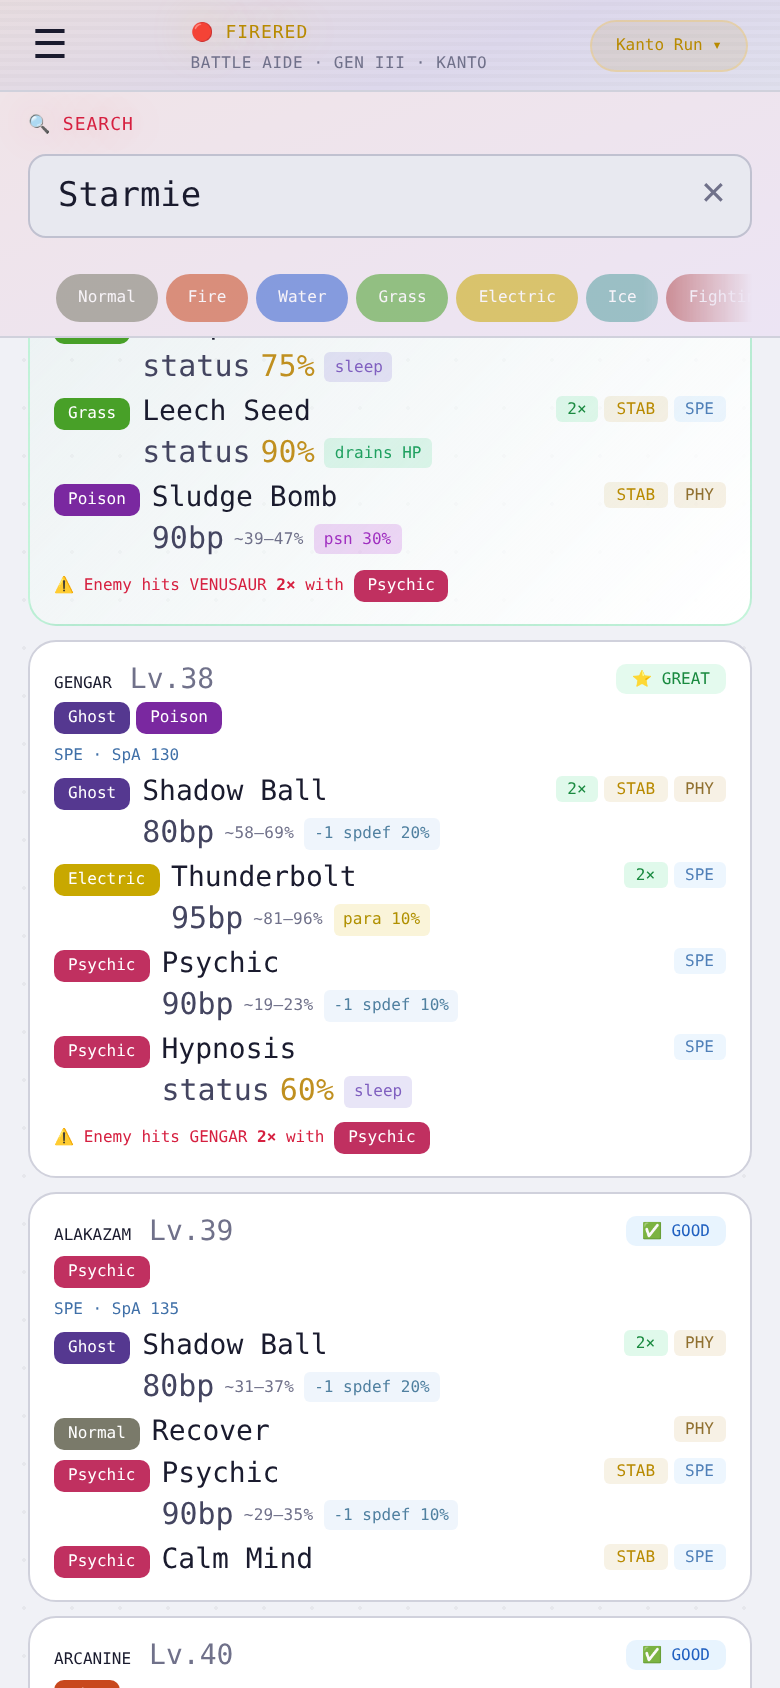
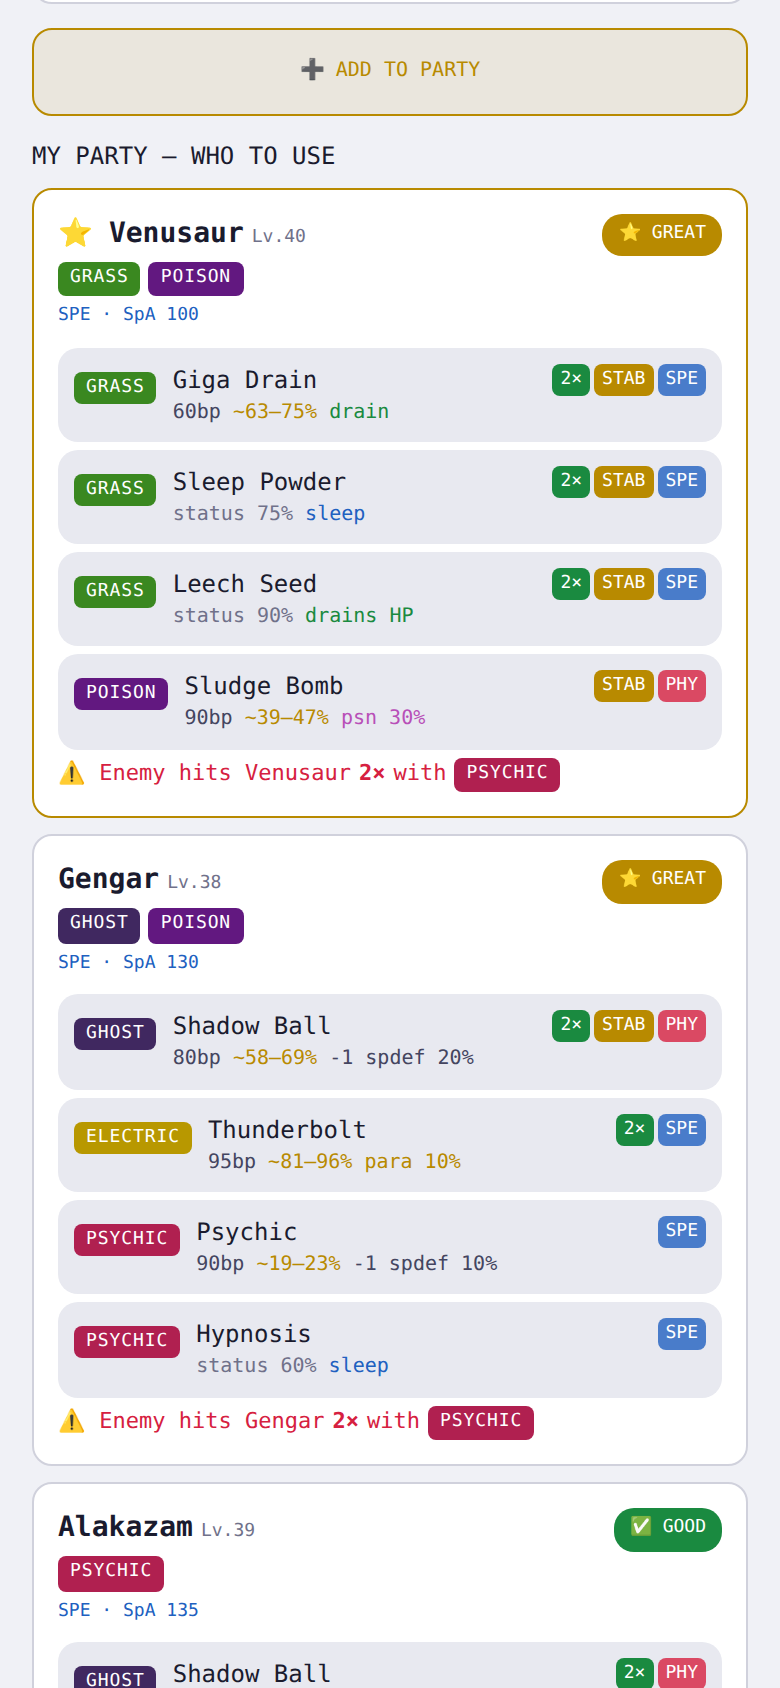
feat: regenerate README screenshots against React preview (Phase 9)

diff --git a/scripts/screenshot-readme.ts b/scripts/screenshot-readme.ts
@@ -1,0 +1,264 @@
+/**
+ * Regenerate the 4 README screenshots against the React + Tailwind build.
+ *
+ * Usage:
+ *   npm run build
+ *   npm run screenshots
+ *
+ * Spawns `vite preview` on a fixed port, seeds a full-party playthrough into
+ * `se_v1`, walks the app, and overwrites the tracked PNGs under `screenshots/`.
+ */
+import { type ChildProcess, spawn } from "node:child_process";
+import { mkdir } from "node:fs/promises";
+import { dirname, resolve } from "node:path";
+import { fileURLToPath } from "node:url";
+import { type Page, chromium } from "@playwright/test";
+
+const HERE = dirname(fileURLToPath(import.meta.url));
+const ROOT = resolve(HERE, "..");
+const OUT_DIR = resolve(ROOT, "screenshots");
+const PORT = 4174;
+const BASE = `http://localhost:${PORT}/super-effective/`;
+
+const SEED_PT_ID = "00000000-0000-4000-8000-000000000042";
+
+const SEED_STORE = {
+  playthroughs: [
+    {
+      id: SEED_PT_ID,
+      name: "Kanto Run",
+      gameId: "frlg-fr",
+      party: [
+        {
+          n: 3,
+          name: "Venusaur",
+          types: ["Grass", "Poison"],
+          level: 40,
+          moves: [
+            { name: "Giga Drain", type: "Grass", cat: "spec" },
+            { name: "Sludge Bomb", type: "Poison", cat: "spec" },
+            { name: "Sleep Powder", type: "Grass", cat: "stat" },
+            { name: "Leech Seed", type: "Grass", cat: "stat" },
+          ],
+        },
+        {
+          n: 94,
+          name: "Gengar",
+          types: ["Ghost", "Poison"],
+          level: 38,
+          moves: [
+            { name: "Shadow Ball", type: "Ghost", cat: "spec" },
+            { name: "Psychic", type: "Psychic", cat: "spec" },
+            { name: "Thunderbolt", type: "Electric", cat: "spec" },
+            { name: "Hypnosis", type: "Psychic", cat: "stat" },
+          ],
+        },
+        {
+          n: 130,
+          name: "Gyarados",
+          types: ["Water", "Flying"],
+          level: 39,
+          moves: [
+            { name: "Surf", type: "Water", cat: "spec" },
+            { name: "Dragon Dance", type: "Dragon", cat: "stat" },
+            { name: "Earthquake", type: "Ground", cat: "phys" },
+            { name: "Return", type: "Normal", cat: "phys" },
+          ],
+        },
+        {
+          n: 59,
+          name: "Arcanine",
+          types: ["Fire"],
+          level: 40,
+          moves: [
+            { name: "Flamethrower", type: "Fire", cat: "spec" },
+            { name: "Extreme Speed", type: "Normal", cat: "phys" },
+            { name: "Crunch", type: "Dark", cat: "spec" },
+            { name: "Iron Tail", type: "Steel", cat: "phys" },
+          ],
+        },
+        {
+          n: 65,
+          name: "Alakazam",
+          types: ["Psychic"],
+          level: 39,
+          moves: [
+            { name: "Psychic", type: "Psychic", cat: "spec" },
+            { name: "Shadow Ball", type: "Ghost", cat: "spec" },
+            { name: "Calm Mind", type: "Psychic", cat: "stat" },
+            { name: "Recover", type: "Normal", cat: "stat" },
+          ],
+        },
+        {
+          n: 76,
+          name: "Golem",
+          types: ["Rock", "Ground"],
+          level: 38,
+          moves: [
+            { name: "Earthquake", type: "Ground", cat: "phys" },
+            { name: "Rock Slide", type: "Rock", cat: "phys" },
+            { name: "Brick Break", type: "Fighting", cat: "phys" },
+            { name: "Double-Edge", type: "Normal", cat: "phys" },
+          ],
+        },
+      ],
+      pc: [],
+      recents: [
+        { n: 121, name: "Starmie", types: ["Water", "Psychic"] },
+        { n: 94, name: "Gengar", types: ["Ghost", "Poison"] },
+        { n: 3, name: "Venusaur", types: ["Grass", "Poison"] },
+      ],
+      rivalStarter: "bulbasaur",
+      tmInventory: {},
+    },
+  ],
+  activePtId: SEED_PT_ID,
+};
+
+const SEED_SETTINGS = { theme: "light" };
+
+async function waitForServer(url: string, timeoutMs = 30_000) {
+  const deadline = Date.now() + timeoutMs;
+  while (Date.now() < deadline) {
+    try {
+      const res = await fetch(url, { method: "HEAD" });
+      if (res.ok || res.status === 304) return;
+    } catch {
+      // not ready yet
+    }
+    await new Promise((r) => setTimeout(r, 250));
+  }
+  throw new Error(`preview server never came up at ${url}`);
+}
+
+function startPreview(): ChildProcess {
+  // Invoke vite directly (not via `npm run preview`) so we control a single
+  // child PID and can SIGTERM it cleanly on exit.
+  const bin = resolve(ROOT, "node_modules/.bin/vite");
+  const child = spawn(bin, ["preview", `--port=${PORT}`, "--strictPort"], {
+    cwd: ROOT,
+    stdio: "pipe",
+    env: { ...process.env, BROWSER: "none" },
+  });
+  child.stdout?.on("data", (buf) => process.stdout.write(`[preview] ${buf}`));
+  child.stderr?.on("data", (buf) => process.stderr.write(`[preview] ${buf}`));
+  return child;
+}
+
+async function seed(page: Page) {
+  await page.goto(BASE);
+  await page.evaluate(
+    ({ store, settings }) => {
+      localStorage.clear();
+      localStorage.setItem("se_v1", JSON.stringify(store));
+      localStorage.setItem("se_settings_v1", JSON.stringify(settings));
+      document.documentElement.dataset.theme = "light";
+    },
+    { store: SEED_STORE, settings: SEED_SETTINGS },
+  );
+  await page.reload();
+  await page.getByLabel("Search Pokémon").waitFor({ state: "visible" });
+  // Re-assert light theme after React mounts — settings hook may reset it.
+  await page.evaluate(() => {
+    document.documentElement.dataset.theme = "light";
+  });
+}
+
+async function resetScroll(page: Page) {
+  // The shell isn't height-capped, so long routes let the window scroll.
+  // Reset between shots so each screenshot starts from a known baseline.
+  await page.evaluate(() => {
+    window.scrollTo(0, 0);
+  });
+}
+
+async function takeSearchPartyMatchup(page: Page) {
+  // Starmie's dex number is 121; navigate directly via URL param so the shot
+  // is deterministic (no dropdown timing).
+  await page.goto(`${BASE}#/search?n=121`);
+  await page.getByRole("heading", { name: "Starmie" }).waitFor({ state: "visible" });
+  await resetScroll(page);
+  // Anchor the "MY PARTY — WHO TO USE" heading near the top of the viewport
+  // so the Venusaur + Gengar GREAT rows are framed in the screenshot.
+  await page.evaluate(() => {
+    const headings = Array.from(document.querySelectorAll("h3"));
+    const hit = headings.find((h) => h.textContent?.trim() === "MY PARTY — WHO TO USE");
+    if (hit) {
+      hit.scrollIntoView({ block: "start" });
+      window.scrollBy(0, -70); // peek the ADD TO PARTY button above
+    }
+  });
+  await page.waitForTimeout(250);
+  await page.screenshot({ path: resolve(OUT_DIR, "search-party-matchup.png") });
+}
+
+async function takeSearchGengarDetail(page: Page) {
+  await page.goto(`${BASE}#/search?n=94`);
+  await page.getByRole("heading", { name: "Gengar" }).waitFor({ state: "visible" });
+  await resetScroll(page);
+  await page.waitForTimeout(250);
+  await page.screenshot({ path: resolve(OUT_DIR, "search-gengar-detail.png") });
+}
+
+async function takeGymsMistyExpanded(page: Page) {
+  await page.goto(`${BASE}#/gyms`);
+  await page.getByRole("region", { name: "Gyms page" }).waitFor({ state: "visible" });
+  await resetScroll(page);
+  const misty = page.getByRole("button", { name: "Expand Misty" });
+  await misty.scrollIntoViewIfNeeded();
+  await misty.click();
+  // After expanding, anchor Misty's name near the top so the Staryu +
+  // Starmie roster and tip are visible beneath it.
+  await misty.evaluate((el: HTMLElement) => {
+    el.scrollIntoView({ block: "start" });
+    window.scrollBy(0, -60); // peek the card above for context
+  });
+  await page.waitForTimeout(250);
+  await page.screenshot({ path: resolve(OUT_DIR, "gyms-misty-expanded.png") });
+}
+
+async function takeWhereAmISafari(page: Page) {
+  await page.goto(`${BASE}#/where`);
+  await page.getByRole("region", { name: "Where Am I page" }).waitFor({ state: "visible" });
+  await page.getByLabel("Filter locations").fill("safari");
+  await resetScroll(page);
+  await page.waitForTimeout(300);
+  await page.screenshot({ path: resolve(OUT_DIR, "where-am-i-safari.png") });
+}
+
+async function main() {
+  await mkdir(OUT_DIR, { recursive: true });
+
+  const preview = startPreview();
+  try {
+    await waitForServer(BASE);
+
+    const browser = await chromium.launch();
+    try {
+      const ctx = await browser.newContext({
+        viewport: { width: 390, height: 844 },
+        deviceScaleFactor: 2,
+        colorScheme: "light",
+      });
+      const page = await ctx.newPage();
+
+      await seed(page);
+      await takeSearchPartyMatchup(page);
+      await takeSearchGengarDetail(page);
+      await takeGymsMistyExpanded(page);
+      await takeWhereAmISafari(page);
+
+      await ctx.close();
+    } finally {
+      await browser.close();
+    }
+    console.warn("README screenshots regenerated ->", OUT_DIR);
+  } finally {
+    preview.kill("SIGTERM");
+  }
+}
+
+main().catch((err) => {
+  console.error(err);
+  process.exit(1);
+});

diff --git a/plan/react-tailwind-rewrite/02-status.md b/plan/react-tailwind-rewrite/02-status.md
@@ -97,8 +97,10 @@ See [03-phases.md](./03-phases.md) Phase 8.
 - [x] Accessible-label touch-ups on React components to support role/label selectors: `aria-label="Current game"` on the masthead; `aria-label="Party page" / "Gyms page" / "TMs and HMs page" / "Where Am I page"` on route sections; `aria-label="Rival starter"` on the Gyms starter region; `aria-pressed` on starter buttons; `aria-label="Computed stats"` on the edit-modal summary; HM toggle label clarified to `Need HM01` / `Have HM01`
 - [x] `.github/workflows/ci.yml` — new `e2e` job runs `npx playwright install --with-deps chromium`, builds, and invokes `npx playwright test`; uploads `playwright-report/` + `test-results/` on failure
 
-### README screenshots
-See [03-phases.md](./03-phases.md) Phase 9. Add `scripts/screenshot-readme.ts` to regenerate the 4 tracked PNGs via Playwright against Vite preview.
+### README screenshots ✅ DONE
+See [03-phases.md](./03-phases.md) Phase 9.
+- [x] `scripts/screenshot-readme.ts` + `npm run screenshots` — spawns `vite preview` on port 4174, seeds a full-party FireRed run into `se_v1`, and walks the React app at a 390×844 @2× mobile viewport in light mode
+- [x] Regenerated all 4 tracked PNGs (`search-party-matchup.png`, `search-gengar-detail.png`, `gyms-misty-expanded.png`, `where-am-i-safari.png`); README image references resolve
 
 ## File inventory
 

diff --git a/plan/react-tailwind-rewrite/03-phases.md b/plan/react-tailwind-rewrite/03-phases.md
@@ -87,11 +87,11 @@ Vision client already existed at `features/scan/vision-client.ts`.
 - [x] Add new scenarios where React differs (e.g. `creating a new FireRed run from empty state updates the masthead` replaces the vanilla "first-run game gate")
 - [x] Re-enable in CI with Playwright install step — `.github/workflows/ci.yml` `e2e` job runs `npx playwright install --with-deps chromium` + `npx playwright test` and uploads failure artifacts
 
-## Phase 9 — README screenshots  ⏳ TODO
+## Phase 9 — README screenshots  ✅ DONE
 
-- [ ] `scripts/screenshot-readme.ts` — Playwright against `npm run preview`
-- [ ] Regenerate the 4 tracked PNGs (search-party-matchup, search-gengar-detail, gyms-misty-expanded, where-am-i-safari)
-- [ ] Update README.md with the new stack mention (already done) + verify image references still resolve
+- [x] `scripts/screenshot-readme.ts` — spawns `vite preview` on port 4174, seeds a full-party run into `se_v1`, and walks the React app at a 390×844 @2× mobile viewport. Exposed as `npm run screenshots`.
+- [x] Regenerated the 4 tracked PNGs (search-party-matchup, search-gengar-detail, gyms-misty-expanded, where-am-i-safari)
+- [x] README image references all resolve against the regenerated files
 
 ## Phase 10 — Parity sweep + merge  ⏳ TODO
 
